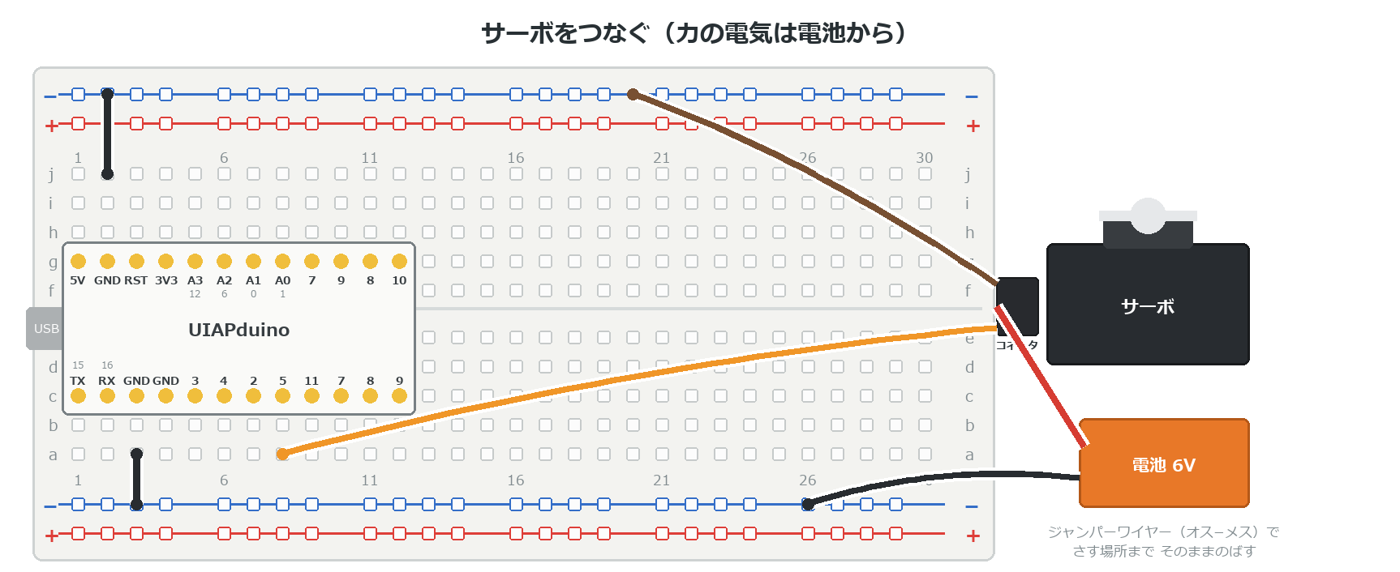
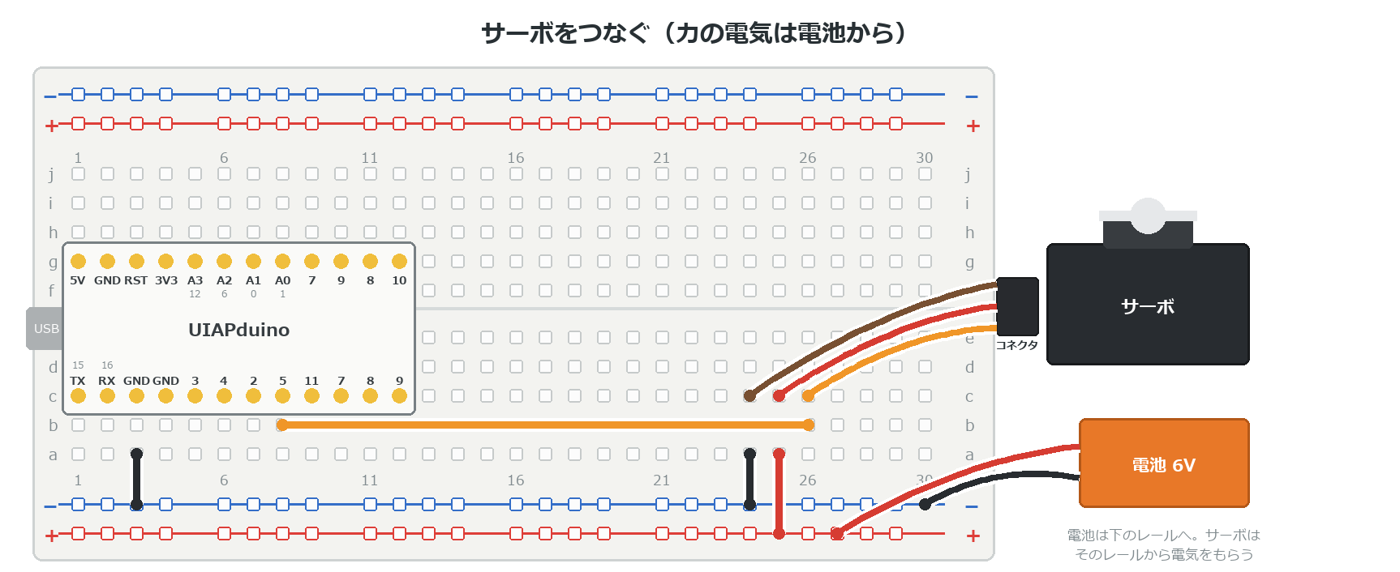
e4 サーボの配線を レール経由 にした
電池からサーボへ直接つないでいたのを、電池 → 下の ＋−レール →
サーボ という形に変えた。道すじが1本の線としてたどれる。

サーボの3本は となりあう列（24・25・26）にいったん落としてから
配っている。連結器から直接レールへ引くと、信号線（黄）が電源の
2本と交差してしまうため。黄はコネクタのいちばん下の線なのに、
いちばん高い場所（5番ピン）へ行くので順序が入れかわる。
同じ行に落とせば、そこから先は短い縦の線だけで済む。

電池は ＋を27列、−を30列にした。+b レールは -b より下にあるので、
＋の列を −の列より左にしないと2本が交差する。

本文も「まず電池をレールへ」から始まる4ステップに書きかえた。

diff --git a/docs/e4_servo/index.html b/docs/e4_servo/index.html
@@ -74,19 +74,20 @@
 
 :::
 
-サーボの線は3本。**USBを抜いてから**つなごう。
+**USBを抜いてから**つなごう。まず電池をレールへ。
 
-1. **茶**（黒）… **− レール**（電池の − も同じレールへ）
-2. **赤** … **電池の ＋**
-3. **黄**（橙）… **5番ピン**
+1. 電池の **＋**→**＋レール**、**−**→**−レール**
+2. サーボの3本を**となりあう列**にさす
+3. **茶**→**−レール** ／ **赤**→**＋レール**
+4. **黄**（橙）→ **5番ピン**
 
 > ⚠ 赤をボードの 5V につながない。力の電気は電池から。
 
-> 線の色をまちがえるとサーボが壊れる。メンターと確かめてね。
+> ボードの GND も同じ **−レール**へ。忘れると動かないよ。
 
 :::
 
-![力の電気は電池から、合図だけボードから。GND は −レールでつなぐ](image/index/bb_servo.png)
+![電池は下のレールへ。サーボはそのレールから電気をもらう](image/index/bb_servo.png)
 
 ---
 

diff --git a/tools/fig_bb_servo.py b/tools/fig_bb_servo.py
@@ -1,31 +1,42 @@
 # -*- coding: utf-8 -*-
 """e4 サーボの配線図。力の電気は はじめから電池から取る。
-   合図だけボードから出し、GND はボード側の − レールでつなぐ。"""
+
+電池は**下の ＋−レール**につなぎ、サーボはそのレールから電気をもらう。
+こうすると「電池 → レール → サーボ」の道すじが1本に見える。
+合図（黄）だけボードの5番から。GND は ボードもレールにつないで共通にする。
+サーボの3本は となりあう列（24・25・26）にいったん落としてから配る。
+"""
 import sys
 sys.path.insert(0, "tools")
 sys.stdout.reconfigure(encoding="utf-8")
 from bb import *
 
 RED, BROWN, ORANGE, BLACK = (214, 60, 50), (120, 80, 50), (240, 150, 40), (40, 44, 48)
+SC = 24                                    # サーボの3本を落とす列（茶・赤・黄）
 
 im, d = new("サーボをつなぐ（力の電気は電池から）", extra_w=460)
 board(d)
 mcu(d)
 
-# ボードの GND を 上下どちらの − レールにも出しておく
-wire(d, (2, "j"), (2, "-t"), BLACK)
-wire(d, (3, "a"), (3, "-b"), BLACK)
-
 sx, sy = 1290, 300
 brown, red, orange = servo(d, sx, sy)
 bp, bm = battery(d, 1330, 516)
 
-lead(d, brown[0], brown[1], (20, "-t"), BROWN)     # 茶 … GND（− レールへ）
-d.line([red[0], red[1], bp[0] + 6, bp[1]], fill=WHITE, width=16)
-d.line([red[0], red[1], bp[0] + 6, bp[1]], fill=RED, width=8)
-lead(d, bm[0], bm[1], (26, "-b"), BLACK)           # 電池の − … 下の − レールへ
-lead(d, orange[0], orange[1], (8, "a"), ORANGE)    # 黄 … 5番ピン
+# 電池 → 下の ＋−レール
+lead(d, bp[0], bp[1], (27, "+b"), RED)
+lead(d, bm[0], bm[1], (30, "-b"), BLACK)
 
-center(d, 1435, 644, "ジャンパーワイヤー（オス−メス）で", reg(17), GRAY)
-center(d, 1435, 668, "さす場所まで そのままのばす", reg(17), GRAY)
+# サーボの3本を となりあう列へ落とす
+lead(d, brown[0],  brown[1],  (SC,     "c"), BROWN)
+lead(d, red[0],    red[1],    (SC + 1, "c"), RED)
+lead(d, orange[0], orange[1], (SC + 2, "c"), ORANGE)
+
+# そこから レールと 5番ピンへ
+wire(d, (SC,     "a"), (SC,     "-b"), BLACK)   # 茶 → −レール
+wire(d, (SC + 1, "a"), (SC + 1, "+b"), RED)     # 赤 → ＋レール
+wire(d, (8, "b"), (SC + 2, "b"), ORANGE)        # 黄 → 5番ピン
+wire(d, (3, "a"), (3, "-b"), BLACK)             # ボードのGND → 同じ −レール
+
+center(d, 1435, 648, "電池は下のレールへ。サーボは", reg(17), GRAY)
+center(d, 1435, 672, "そのレールから電気をもらう", reg(17), GRAY)
 save(im, "e4_servo", "bb_servo.png")

diff --git a/CURRICULUM.md b/CURRICULUM.md
@@ -432,6 +432,21 @@ micro:bit（センサー内蔵）／Raspberry Pi（カメラ・画面）。
 「固定抵抗を 4.7kΩ に変えるべき」と誤った結論を出しかけた。
 **測定条件が正しいかを先に確かめる**こと。部品を疑う前に測り方を疑う。
 
+### e4 サーボの配線を レール経由 にした（2026-09-23）
+
+電池からサーボへ直接つないでいたのを、**電池 → 下の ＋−レール → サーボ**
+という形に変えた。道すじが1本の線としてたどれるようになる。
+
+- サーボの3本は **となりあう列（24・25・26）にいったん落として**から配る。
+  連結器から直接レールへ引くと、**信号線（黄）が電源の2本と交差する**
+  （黄はいちばん下の線なのに、いちばん高い場所＝5番ピンへ行くため）。
+  いったん同じ行に落とせば、そこから先は短い縦の線だけで済む。
+- 電池の ＋は **27列**、−は **30列**。`+b` レールは `-b` より下にあるので、
+  **＋の列を −の列より左**にしないと、2本が交差する。
+- ボードの GND も同じ `-b` レールへ（共通GND）。
+
+作図は `tools/fig_bb_servo.py`。
+
 ### HC-SR04 の仕様（2026-09-23・データシートで確認）
 
 Elecfreaks の Ultrasonic Ranging Module HC-SR04 データシートより。

diff --git a/content/e4_servo/index.md b/content/e4_servo/index.md
@@ -60,19 +60,20 @@ wip: 写真まち
 
 :::
 
-サーボの線は3本。**USBを抜いてから**つなごう。
+**USBを抜いてから**つなごう。まず電池をレールへ。
 
-1. **茶**（黒）… **− レール**（電池の − も同じレールへ）
-2. **赤** … **電池の ＋**
-3. **黄**（橙）… **5番ピン**
+1. 電池の **＋**→**＋レール**、**−**→**−レール**
+2. サーボの3本を**となりあう列**にさす
+3. **茶**→**−レール** ／ **赤**→**＋レール**
+4. **黄**（橙）→ **5番ピン**
 
 > ⚠ 赤をボードの 5V につながない。力の電気は電池から。
 
-> 線の色をまちがえるとサーボが壊れる。メンターと確かめてね。
+> ボードの GND も同じ **−レール**へ。忘れると動かないよ。
 
 :::
 
-![力の電気は電池から、合図だけボードから。GND は −レールでつなぐ](image/index/bb_servo.png)
+![電池は下のレールへ。サーボはそのレールから電気をもらう](image/index/bb_servo.png)
 
 ---
 
